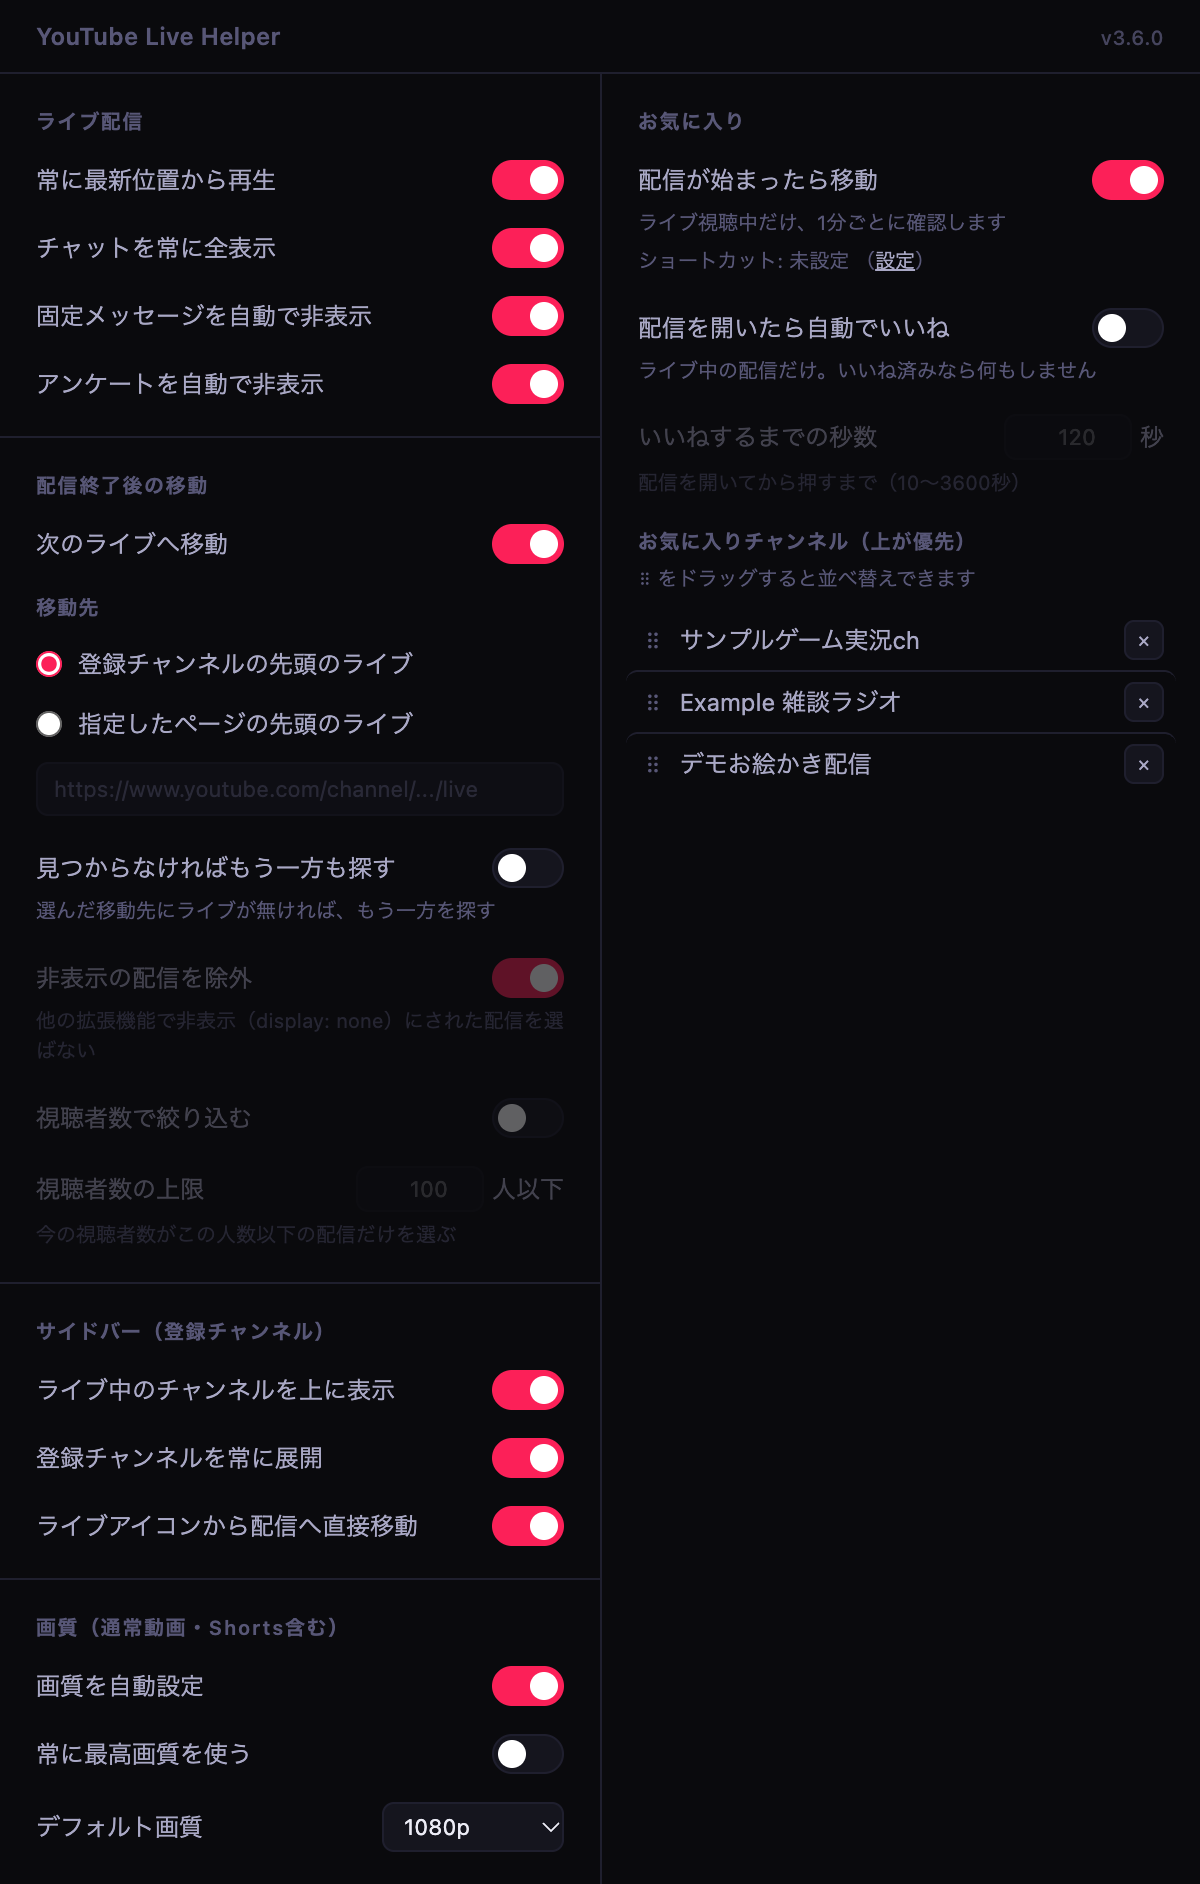
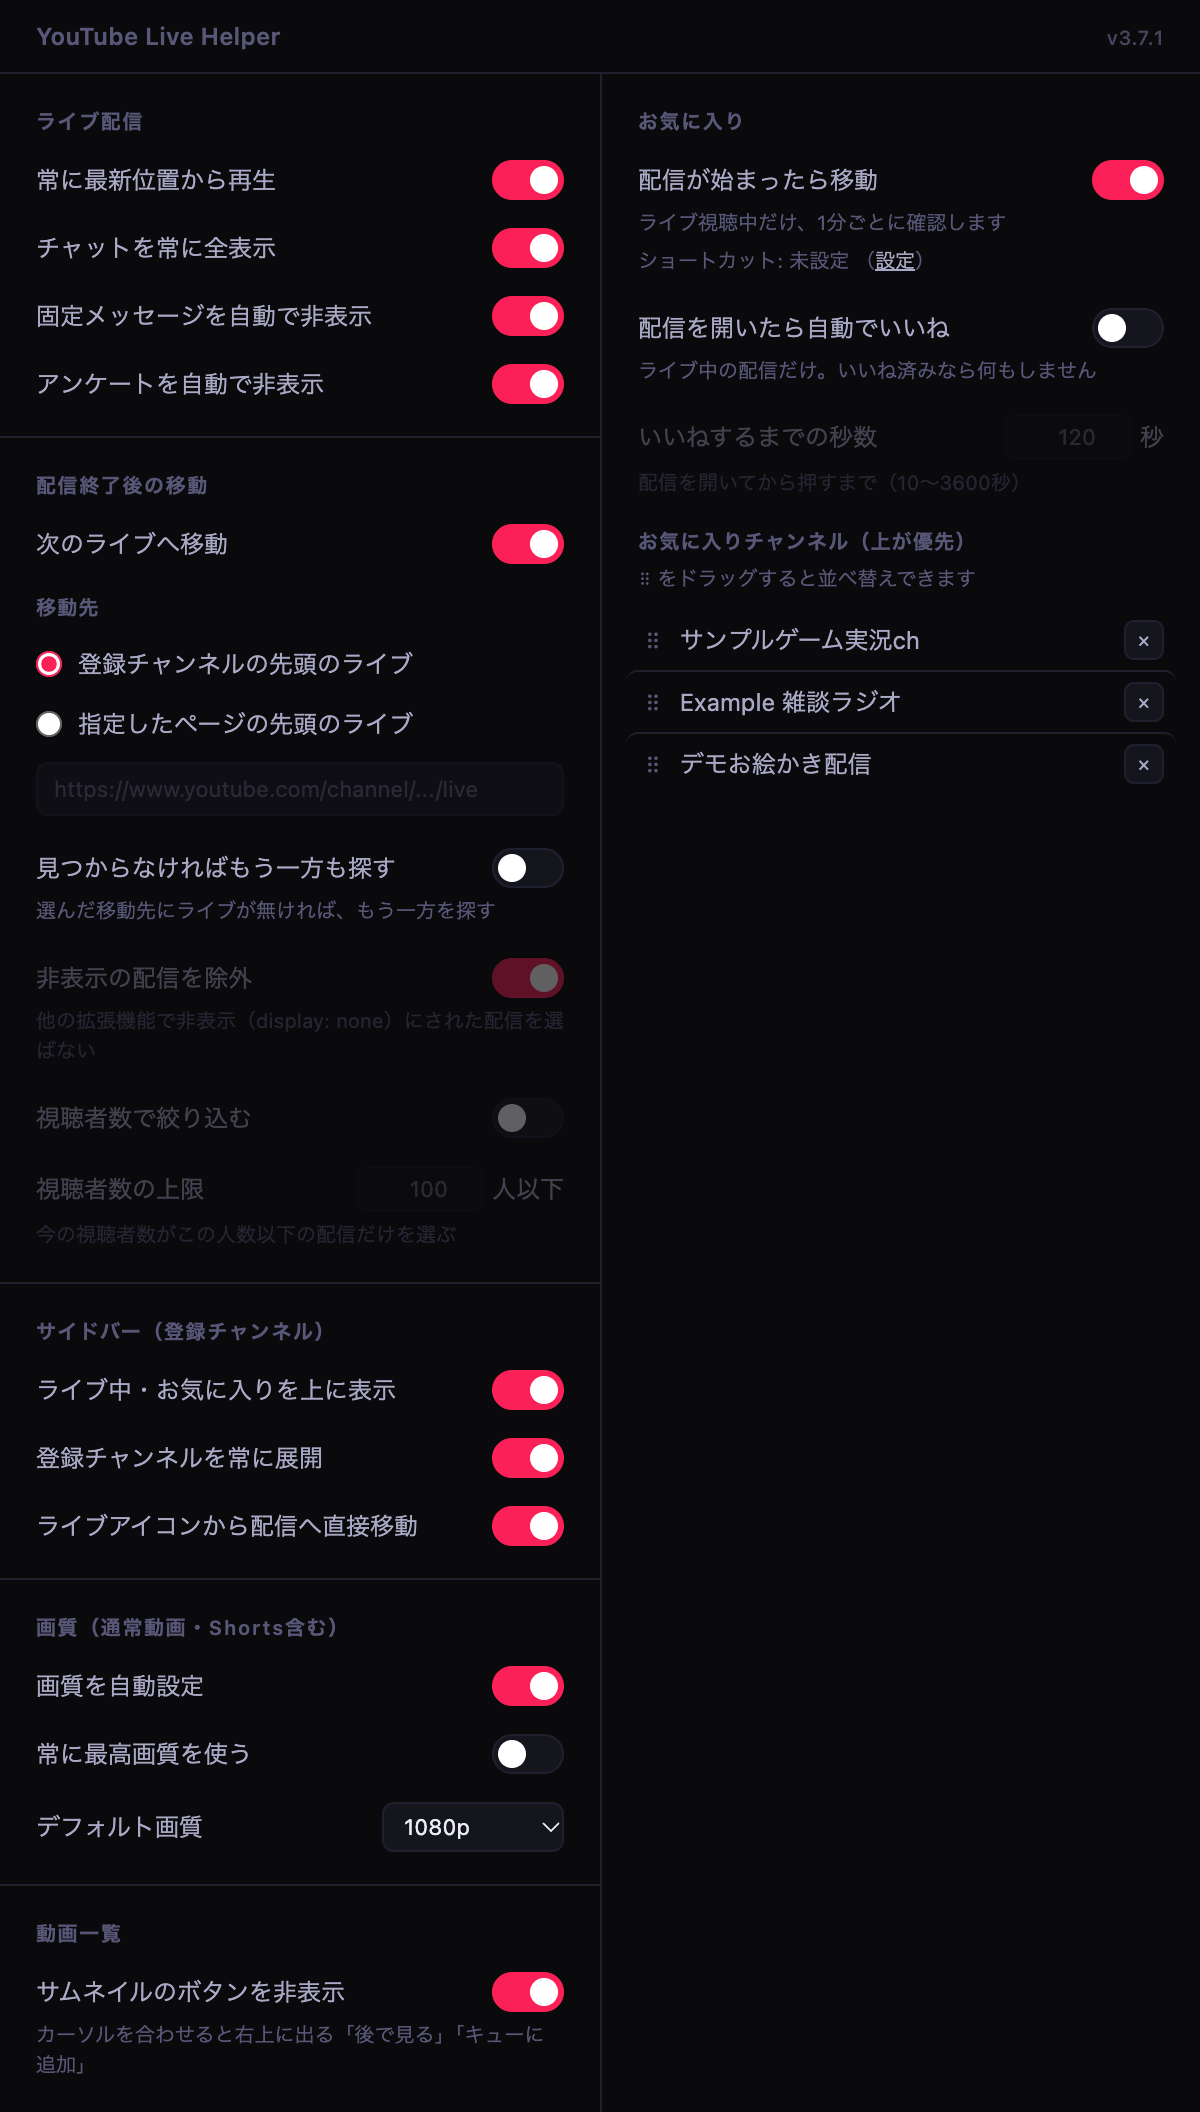
Release 3.7.2 サイドバーをライブ中のお気に入り→ライブ中→配信外のお気に入り→残りの順に並べ、お気に入りの☆をアイコンと名前の間へ移した。

diff --git a/guide.js b/guide.js
@@ -22,7 +22,6 @@
   const FAV_STYLE_ID = 'ylh-guide-fav';
   const FAV_CLASS = 'ylh-fav-star';
   const FAV_ON_CLASS = 'ylh-fav-on';
-  const FAV_LIVE_CLASS = 'ylh-fav-live';
   const FAV_ATTR = 'data-ylh-fav';
   const FAV_TITLE_ON = 'お気に入りから外す';
   const FAV_TITLE_OFF = 'お気に入りに追加';
@@ -153,9 +152,10 @@
     }
   }
 
-  // お気に入りの★は行の右端に置く。アバターの上に重ねると、ホバーしたときに出る位置が
-  // ちょうどマウスカーソルの真下になり、矢印に隠れて見えなかった(実測してやり直した)。
-  // ライブ中の行は右端をライブアイコンが使っているので、その分だけ左にずらす。
+  // お気に入りの★はアバターと名前の間の隙間に置く。実測(2026-11-07)でアバターは行の左端から
+  // 12〜36px、名前は 60px から始まるので、24px の隙間の真ん中(中心 48px)に 16px の★を置く。
+  // 以前は行の右端に置いていたが、ライブ中の行ではライブアイコンと近くて押しづらかった。
+  // (アバターの上に重ねるのは不可。ホバーで出る位置がマウスカーソルの真下になり、矢印に隠れる)
   // エントリは position:relative(実測)なので、そのまま絶対配置できる。
   function favStyle() {
     if (document.getElementById(FAV_STYLE_ID)) return;
@@ -163,15 +163,14 @@
     style.id = FAV_STYLE_ID;
     style.textContent =
       `ytd-guide-entry-renderer .${FAV_CLASS}` +
-      '{position:absolute;right:2px;top:50%;margin-top:-10px;width:20px;height:20px;' +
+      '{position:absolute;left:40px;top:50%;margin-top:-8px;width:16px;height:16px;' +
       'display:none;align-items:center;justify-content:center;box-sizing:border-box;' +
-      'border-radius:50%;background:rgba(0,0,0,0.75);color:#fff;font-size:12px;' +
+      'border-radius:50%;background:rgba(0,0,0,0.75);color:#fff;font-size:10px;' +
       'line-height:1;cursor:pointer;z-index:1;}' +
-      // アイコンが小さいのでクリック範囲だけ広げる(ライブアイコンと同じ手)
+      // アイコンが小さいのでクリック範囲だけ広げる(ライブアイコンと同じ手)。
+      // 左右4pxずつで、ちょうどアバターの右端から名前の左端までになる
       `ytd-guide-entry-renderer .${FAV_CLASS}::after` +
       '{content:"";position:absolute;inset:-4px;border-radius:50%;}' +
-      // ライブ中の行はライブアイコン(右端16px)を避ける(24pxだと実測で4px重なった)
-      `ytd-guide-entry-renderer .${FAV_CLASS}.${FAV_LIVE_CLASS}{right:30px;}` +
       // 普段はホバーしたときだけ。お気に入り登録済みのものは常に出す
       `ytd-guide-entry-renderer:hover .${FAV_CLASS}{display:flex;}` +
       `ytd-guide-entry-renderer .${FAV_CLASS}.${FAV_ON_CLASS}` +
@@ -218,7 +217,6 @@
       const mark = on ? '★' : '☆';
       if (star.textContent !== mark) star.textContent = mark;
       star.classList.toggle(FAV_ON_CLASS, on);
-      star.classList.toggle(FAV_LIVE_CLASS, isLive(entry));
       const title = on ? FAV_TITLE_ON : FAV_TITLE_OFF;
       if (star.getAttribute('title') !== title) star.setAttribute('title', title);
     }
@@ -403,11 +401,13 @@
     favStyle();
     markFavorites(all);
 
-    const live = settings.sortLiveChannels ? liveEntries : [];
-    const lifted = new Set(live);
+    // 上から「ライブ中のお気に入り」「ライブ中の残り」「配信外のお気に入り」の順に引き上げる。
+    // お気に入り同士はポップアップの一覧の順(上が優先)、ライブ中の残りは YouTube 本来の並び順
+    const top = settings.sortLiveChannels ? liftedOrder(all, liveEntries) : [];
+    const lifted = new Set(top);
 
-    // 表示部 = 見出し + ライブ中(本来の並び順) + 元から表示されていた残り + 「もっと見る」
-    const desired = [header, ...live, ...shown.filter((entry) => !lifted.has(entry))];
+    // 表示部 = 見出し + 引き上げた分 + 元から表示されていた残り + 「もっと見る」
+    const desired = [header, ...top, ...shown.filter((entry) => !lifted.has(entry))];
     if (collapsible) desired.push(collapsible);
     reconcile(items, desired);
 
@@ -415,6 +415,27 @@
     // (配信が終わったチャンネルはここで元の位置に戻る)
     const expandable = collapsible && collapsible.querySelector('#expandable-items');
     if (expandable) reconcile(expandable, hidden.filter((entry) => !lifted.has(entry)));
+  }
+
+  function liftedOrder(all, liveEntries) {
+    const rank = new Map();
+    (settings.favoriteChannels || []).forEach((favorite, index) => {
+      if (!favorite || typeof favorite.path !== 'string') return;
+      const key = normalizePath(favorite.path);
+      if (!rank.has(key)) rank.set(key, index);
+    });
+    const rankOf = (entry) => {
+      const path = channelPath(entry);
+      return path ? rank.get(normalizePath(path)) : undefined;
+    };
+    const isFavorite = (entry) => rankOf(entry) !== undefined;
+    const byRank = (a, b) => rankOf(a) - rankOf(b);
+    const live = new Set(liveEntries);
+    return [
+      ...liveEntries.filter(isFavorite).sort(byRank),
+      ...liveEntries.filter((entry) => !isFavorite(entry)),
+      ...all.filter((entry) => !live.has(entry) && isFavorite(entry)).sort(byRank),
+    ];
   }
 
   async function apply() {
@@ -465,8 +486,9 @@
   // ===== 配信が終わったら次のライブへ移動する =====
   // 終了の検知はプレーヤーの状態を見る必要があるため live-inject.js(MAIN world)が行い、
   // ylh:live-ended で知らせてくる。遷移先は「登録チャンネル一覧で一番上にあるライブ中の
-  // チャンネル」= YouTube 本来の並び順で最初のライブなので、sortLiveChannels の ON/OFF で
-  // 結果は変わらない。URL はライブアイコンのリンクと同じ <channel>/live 形式。
+  // チャンネル」(今の DOM の並び)。sortLiveChannels が ON ならライブ中のお気に入りが先頭に
+  // 来るのでそれが優先され、OFF なら YouTube 本来の並び順で最初のライブになる。
+  // URL はライブアイコンのリンクと同じ <channel>/live 形式。
   //
   // 注意(実測): watch ページにはガイド(ytd-guide-renderer)がそもそも存在せず、ミニガイドしか
   // 無い。ハンバーガーで開いた瞬間に YouTube が /youtubei/v1/guide を投げて一覧を作るので、
@@ -984,7 +1006,8 @@
     if (changes.autoNextLiveMaxViewers) {
       settings.autoNextLiveMaxViewers = maxViewersOf(changes.autoNextLiveMaxViewers.newValue);
     }
-    // ポップアップ側で並べ替え・削除されたときは★の表示を追従させる
+    // ポップアップ側で並べ替え・削除されたときは★の表示を追従させる。
+    // お気に入りは並び順にも効くので、このあと並べ直す
     if (changes.favoriteChannels) {
       const next = changes.favoriteChannels.newValue;
       settings.favoriteChannels = Array.isArray(next) ? next : [];
@@ -993,6 +1016,7 @@
     }
 
     if (
+      !changes.favoriteChannels &&
       !changes.sortLiveChannels &&
       !changes.expandSubscriptions &&
       !changes.liveChannelDirectLink

diff --git a/popup.html b/popup.html
@@ -320,7 +320,7 @@
 <div class="section">
   <div class="section-title">サイドバー（登録チャンネル）</div>
   <div class="toggle-row">
-    <span class="toggle-label">ライブ中のチャンネルを上に表示</span>
+    <span class="toggle-label">ライブ中・お気に入りを上に表示</span>
     <div class="toggle on" id="sortLiveChannelsToggle"></div>
   </div>
   <div class="toggle-row">
@@ -403,7 +403,7 @@
     <div class="row-note" id="favoriteHint">⠿ をドラッグすると並べ替えできます</div>
     <div class="fav-list" id="favoriteList"></div>
     <div class="row-note" id="favoriteEmpty">
-      サイドバーの登録チャンネル一覧で、行の右端に出る☆を押すと登録できます
+      サイドバーの登録チャンネル一覧で、アイコンと名前の間に出る☆を押すと登録できます
     </div>
   </div>
 </div>

diff --git a/.claude/skills/yt-live-helper/SKILL.md b/.claude/skills/yt-live-helper/SKILL.md
@@ -54,9 +54,16 @@ Ten features today, each with its own popup toggle (all stored in
   creator's in-chat poll from *your own* view via injected CSS. `chat.js`.
   Purely local. Also cleans up the broken poll stub YouTube leaves in all-chat
   mode (see chat.js notes).
-- **Live-channel sort** (`ライブ中のチャンネルを上に表示`, key `sortLiveChannels`) — in
-  the left sidebar's 登録チャンネル list, move the channels that are currently live
-  to the top. `guide.js`. Runs on all of `https://www.youtube.com/*` (the guide is
+- **Live-channel sort** (`ライブ中・お気に入りを上に表示` — renamed from
+  `ライブ中のチャンネルを上に表示` on 2026-11-07; key `sortLiveChannels` unchanged) —
+  in the left sidebar's 登録チャンネル list, lift entries to the top in four tiers
+  (user's spec, 2026-11-07): **live favorites → other live → offline favorites →
+  the rest**. Favorites are ordered by the popup list (= `favoriteChannels`
+  priority), everything else keeps YouTube's order; offline favorites are lifted
+  out of 「もっと見る」 too (`liftedOrder()` in `layout()`). A `favoriteChannels`
+  change now re-runs `apply()`, so clicking ☆ moves the row immediately. Side
+  effect, accepted: the stream-end hop walks the *current DOM order*, so with the
+  sort ON it now prefers a live favorite. `guide.js`. Runs on all of `https://www.youtube.com/*` (the guide is
   everywhere), top frame only.
 - **Subscriptions auto-expand** (`登録チャンネルを常に展開`, key
   `expandSubscriptions`) — click 「もっと見る」 once on load and leave the whole
@@ -441,9 +448,15 @@ splat3-rotations, yt-quick-filter, smart-keysmith), done the same day.
 - **The star must NOT sit over the avatar.** First attempt put it there; measured
   in the real sidebar, the hover star then appears exactly under the mouse pointer
   and the cursor arrow covers it — the user reported "hovering shows nothing".
-  It now sits at the **right edge** of the row (`right:2px`), shifted to
-  `right:24px` (class `ylh-fav-live`) on live rows so it clears the live icon.
-  Hidden until the row is hovered; always visible (pink ★) once favorited.
+  It then sat at the **right edge** of the row (shifted left on live rows to
+  clear the live icon), but the user found it too close to the live icon to hit
+  (2026-11-07). It now sits **in the gap between the avatar and the name**:
+  measured in the user's Chrome Dev, the avatar spans x 12–36px of the 204×40
+  row and the name starts at 60px, so a **16px** star at `left:40px` (10px
+  glyph) leaves 4px on each side, and its `::after` hit area (`inset:-4px`)
+  fills the gap exactly. Same position on live and non-live rows (the
+  `ylh-fav-live` class is gone). Hidden until the row is hovered; always visible
+  (pink ★) once favorited.
 
 **Watching (`fav-watch.js`, ISOLATED, same URL matches as the live pair)**
 

diff --git a/CHANGELOG.md b/CHANGELOG.md
@@ -10,6 +10,14 @@
 
 ## [Unreleased]
 
+## [3.7.2] - 2026-11-07
+
+### Changed
+
+- 「ライブ中のチャンネルを上に表示」（「ライブ中・お気に入りを上に表示」に改名）の並び順を、上から**ライブ中のお気に入り → ライブ中のチャンネル → 配信外のお気に入り → 残り**にしました。お気に入り同士はポップアップの一覧の順（上が優先）、それ以外はYouTube本来の並び順です。配信外のお気に入りも「もっと見る」の中から引き上げます。
+  - 配信終了後の移動（登録チャンネルから探す場合）も、この並びの一番上のライブへ移動するため、ライブ中のお気に入りが優先されます。
+- 左サイドバーの登録チャンネルに出るお気に入りの☆/★を、行の右端から**アイコンとチャンネル名の間**へ移し、少し小さくしました。ライブ中の行でライブアイコンと近くて押しづらかったためです。
+
 ## [3.7.1] - 2026-11-07
 
 ### Changed
